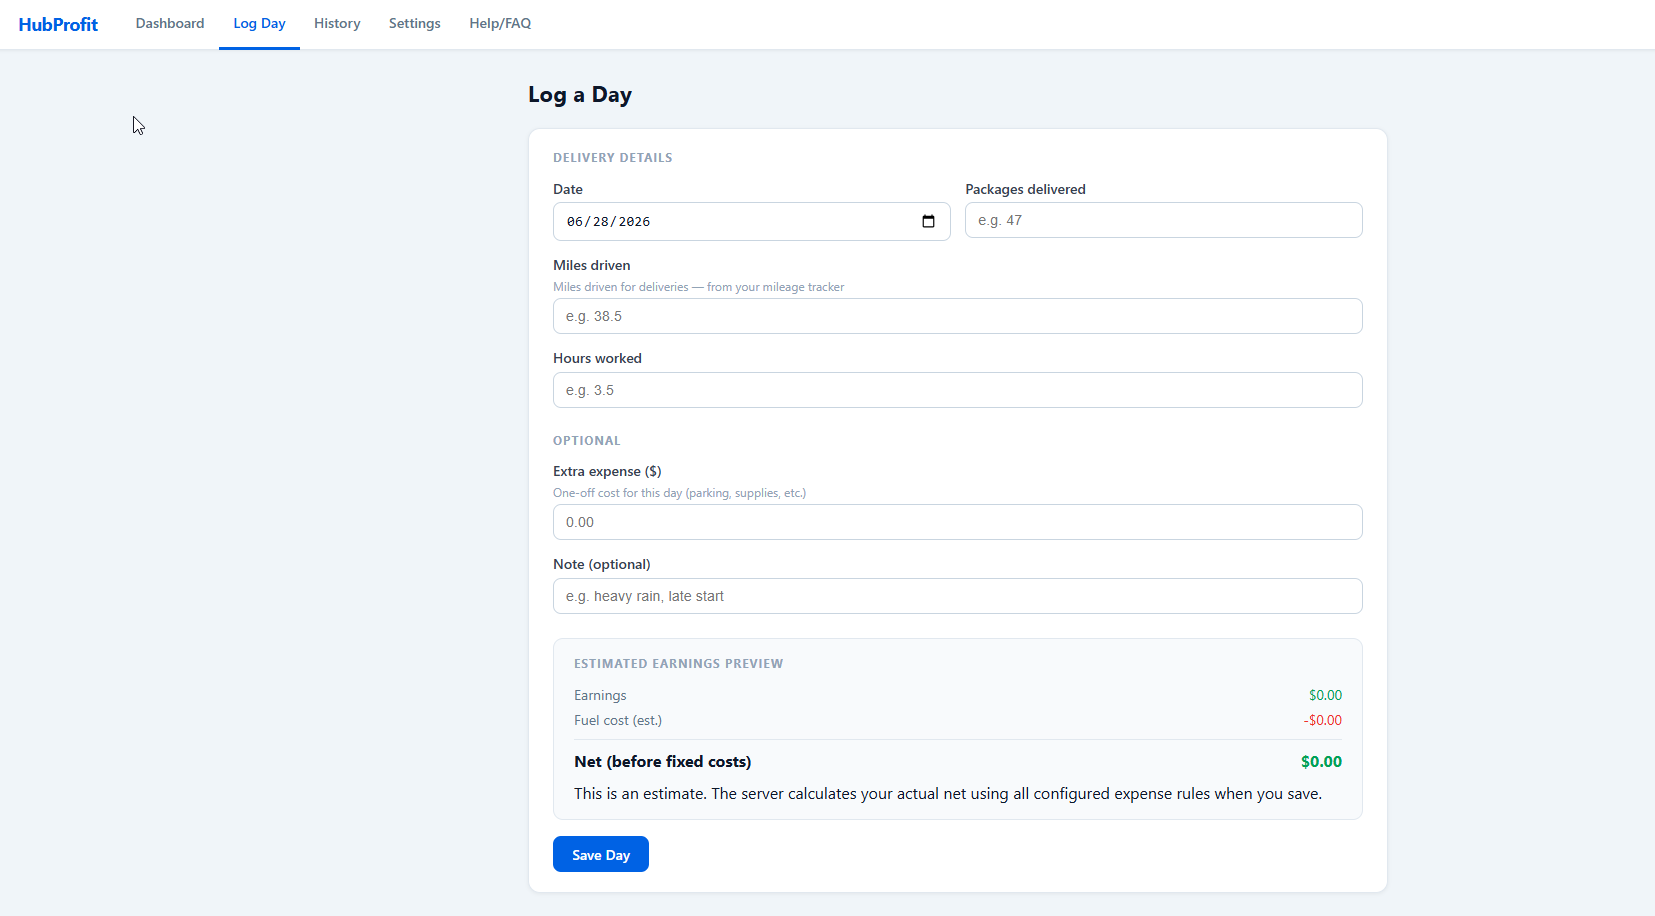
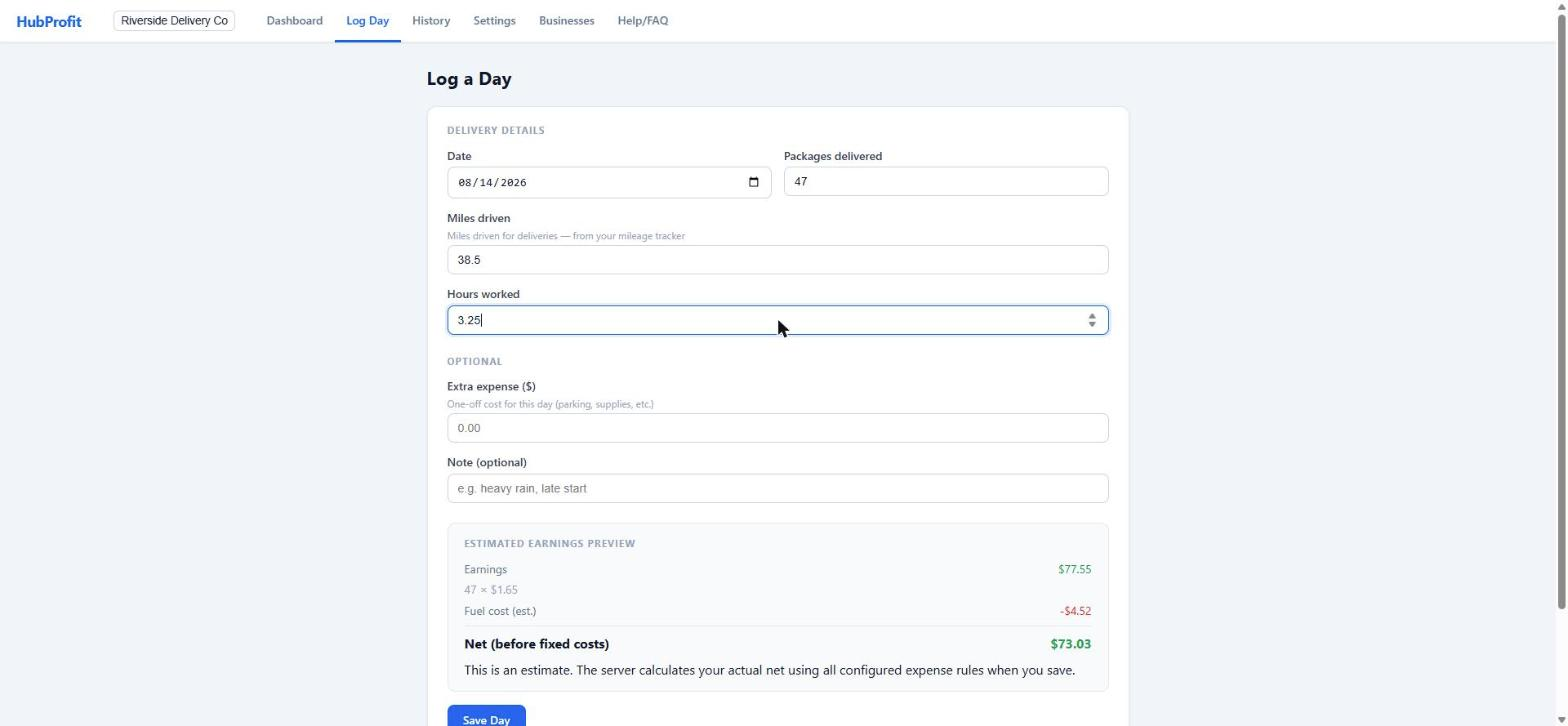
docs: refresh the screenshots for 2.0.0
The old ones were taken on 28 June and predate the edit button, the
timezone fix, and everything in this release - no Businesses tab, no
rate column, no version footer.

Regenerated from scripts/seed_demo.py against a throwaway demo database
with invented business names, so nothing here reflects a real account.
Adds a Businesses screenshot, and the History shot is deliberately taken
on the tiered account so the rate column shows three different rates
driven purely by package count.

diff --git a/README.md b/README.md
@@ -31,17 +31,21 @@ A **free, self-hosted dashboard** that tracks the *real* net profit of your Amaz
 
 ![HubProfit Dashboard](docs/screenshots/dashboard.png)
 
-**Log Day** — quick daily entry with a live earnings & fuel estimate:
+**Log Day** — quick daily entry with a live earnings & fuel estimate that shows the rate being applied:
 
 ![Log a Day](docs/screenshots/log.day.png)
 
-**Settings** — set your rate, pick your vehicle (MPG auto-fills), and toggle the expenses you want counted:
+**History** — every day with the rate it paid, net profit and $/hour, plus one-click CSV export. This account is on a fluctuating contract, so smaller blocks paid $2.25 a package and larger ones $1.65:
+
+![History](docs/screenshots/history.png)
+
+**Settings** — set your rate or enter the tiers of a fluctuating contract, pick your vehicle (MPG auto-fills), and toggle the expenses you want counted:
 
 ![Settings](docs/screenshots/settings.png)
 
-**History** — every day with net profit and $/hour, plus one-click CSV export:
+**Businesses** — running more than one Hub account? Each keeps its own rate, expenses, drivers, and history, and a switcher appears in the header:
 
-![History](docs/screenshots/history.png)
+![Businesses](docs/screenshots/businesses.png)
 
 ---
 
